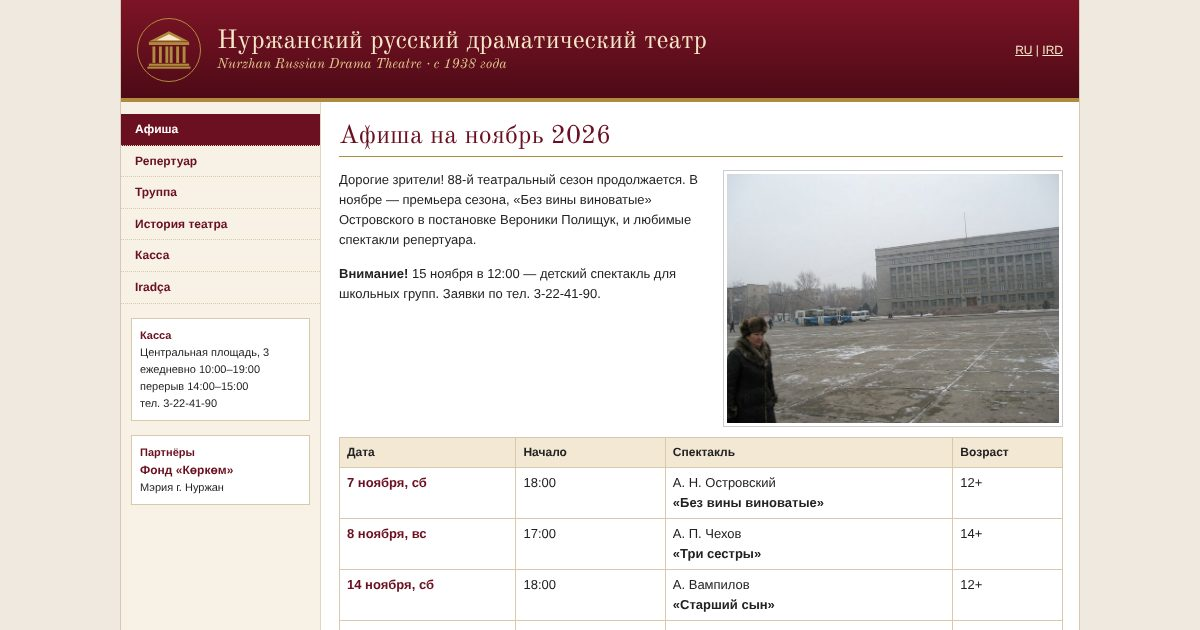
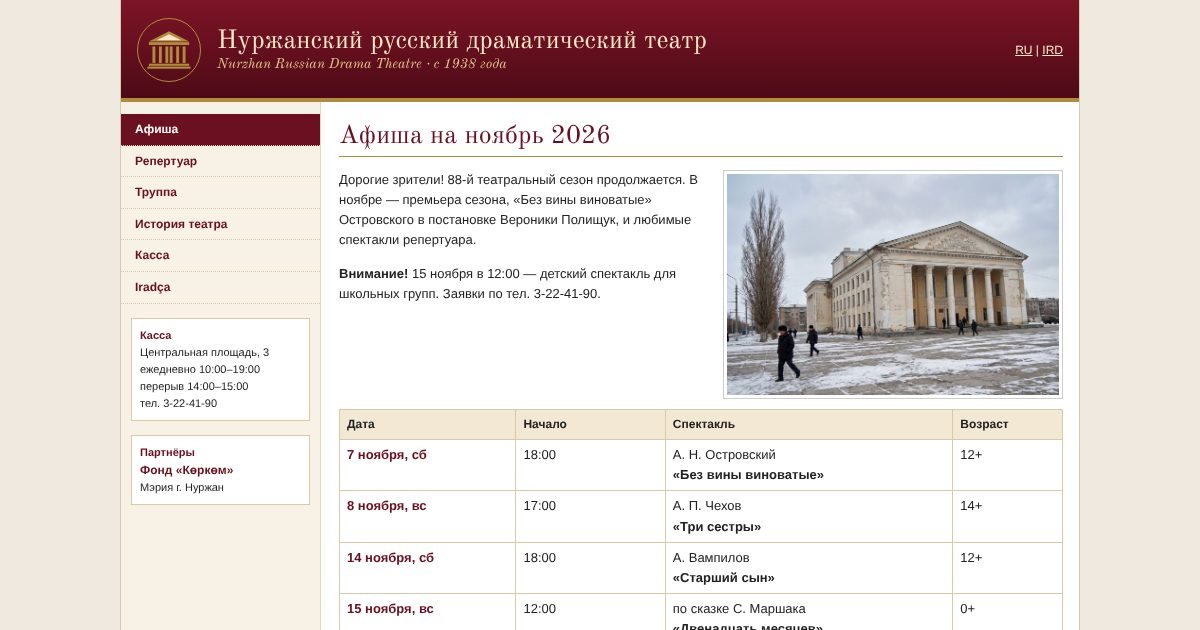
Add photos

Changed region(s): [[0.2775, 0.2714, 0.8942, 1.0], [0.8017, 0.8444, 0.8325, 0.9349], [0.8017, 0.9651, 0.8325, 0.9952]]

diff --git a/repertoire.html b/repertoire.html
@@ -22,7 +22,7 @@
 <div class="cols"><div class="side"><a href="index.html">Афиша</a><a href="repertoire.html" class="on">Репертуар</a><a href="troupe.html">Труппа</a><a href="history.html">История театра</a><a href="kassa.html">Касса</a><a href="kg.html">Iradça</a>
 <div class="box"><b>Касса</b><br>Центральная площадь, 3<br>ежедневно 10:00–19:00<br>перерыв 14:00–15:00<br>тел. 3-22-41-90</div>
 <div class="box"><b>Партнёры</b><br><a href="https://korkom.org/">Фонд «Көркөм»</a><br>Мэрия г. Нуржан</div></div>
-<div class="main"><h1>Репертуар</h1><div class="play"><div class="pos">Без вины виноватые</div><div><b>«Без вины виноватые»</b><br>А. Н. Островский<p>Премьера 15.10.2026. Реж. Вероника Полищук. Кручинина — з. а. Ирада Мамедова, Незнамов — Артём Бондаренко.</p></div></div><div class="play"><div class="pos">Три сестры</div><div><b>«Три сестры»</b><br>А. П. Чехов<p>Премьера 2023. Реж. Вероника Полищук. Ольга — Наталья Ким, Маша — Алина Сейткулова, Ирина — Дарья Гуревич.</p></div></div><div class="play"><div class="pos">Старший сын</div><div><b>«Старший сын»</b><br>А. Вампилов<p>Реж. Олег Тарасенко. Сарафанов — н. а. Виктор Голубев.</p></div></div><div class="play"><div class="pos">Ревизор</div><div><b>«Ревизор»</b><br>Н. В. Гоголь<p>Реж. Вероника Полищук. Хлестаков — Артём Бондаренко, Городничий — Валерий Пак.</p></div></div><div class="play"><div class="pos">На дне</div><div><b>«На дне»</b><br>М. Горький<p>Реж. Олег Тарасенко. 16+.</p></div></div><div class="play"><div class="pos">Двенадцать месяцев</div><div><b>«Двенадцать месяцев»</b><br>С. Маршак<p>Детский спектакль. По воскресеньям в 12:00.</p></div></div><p><i>«Вишнёвый сад»</i> (2012) сыгран более 200 раз за десять сезонов и снят с репертуара в 2022 году.</p></div></div>
+<div class="main"><h1>Репертуар</h1><p><img src="img/sestry.jpg" alt="«Три сестры», сцена из спектакля" style="max-width:100%;border:1px solid #d8c9a8;padding:3px;background:#fff"><br><small>«Три сестры», 2023.</small></p><div class="play"><div class="pos">Без вины виноватые</div><div><b>«Без вины виноватые»</b><br>А. Н. Островский<p>Премьера 15.10.2026. Реж. Вероника Полищук. Кручинина — з. а. Ирада Мамедова, Незнамов — Артём Бондаренко.</p></div></div><div class="play"><div class="pos">Три сестры</div><div><b>«Три сестры»</b><br>А. П. Чехов<p>Премьера 2023. Реж. Вероника Полищук. Ольга — Наталья Ким, Маша — Алина Сейткулова, Ирина — Дарья Гуревич.</p></div></div><div class="play"><div class="pos">Старший сын</div><div><b>«Старший сын»</b><br>А. Вампилов<p>Реж. Олег Тарасенко. Сарафанов — н. а. Виктор Голубев.</p></div></div><div class="play"><div class="pos">Ревизор</div><div><b>«Ревизор»</b><br>Н. В. Гоголь<p>Реж. Вероника Полищук. Хлестаков — Артём Бондаренко, Городничий — Валерий Пак.</p></div></div><div class="play"><div class="pos">На дне</div><div><b>«На дне»</b><br>М. Горький<p>Реж. Олег Тарасенко. 16+.</p></div></div><div class="play"><div class="pos">Двенадцать месяцев</div><div><b>«Двенадцать месяцев»</b><br>С. Маршак<p>Детский спектакль. По воскресеньям в 12:00.</p></div></div><p><i>«Вишнёвый сад»</i> (2012) сыгран более 200 раз за десять сезонов и снят с репертуара в 2022 году.</p></div></div>
 <div class="foot">© Нуржанский русский драматический театр, 2009–2026. Центральная площадь, 3, г. Нуржан. teatr@korkom.org<br>Гастроли по районам проводятся при поддержке <a href="https://korkom.org/">Фонда «Көркөм»</a>. Обновлено 03.11.2026. <span class="counter">Посещений: 48 317</span></div>
 </div></body>
 </html>

diff --git a/index.html b/index.html
@@ -23,7 +23,7 @@
 <div class="box"><b>Касса</b><br>Центральная площадь, 3<br>ежедневно 10:00–19:00<br>перерыв 14:00–15:00<br>тел. 3-22-41-90</div>
 <div class="box"><b>Партнёры</b><br><a href="https://korkom.org/">Фонд «Көркөм»</a><br>Мэрия г. Нуржан</div></div>
 <div class="main"><h1>Афиша на ноябрь 2026</h1>
-<p><img class="foto" src="img/square.jpg" alt="Центральная площадь" width="340" style="float:right;margin:0 0 10px 14px">
+<p><img class="foto" src="img/teatr.jpg" alt="Здание театра на Центральной площади" width="340" style="float:right;margin:0 0 10px 14px">
 Дорогие зрители! 88-й театральный сезон продолжается. В ноябре — премьера сезона, «Без вины виноватые» Островского в постановке Вероники Полищук, и любимые спектакли репертуара.</p>
 <p><b>Внимание!</b> 15 ноября в 12:00 — детский спектакль для школьных групп. Заявки по тел. 3-22-41-90.</p>
 <div class="scroll" style="clear:both"><table class="afisha"><tr><th>Дата</th><th>Начало</th><th>Спектакль</th><th>Возраст</th></tr><tr><td class="d">7 ноября, сб</td><td>18:00</td><td>А. Н. Островский<br><b>«Без вины виноватые»</b></td><td>12+</td></tr><tr><td class="d">8 ноября, вс</td><td>17:00</td><td>А. П. Чехов<br><b>«Три сестры»</b></td><td>14+</td></tr><tr><td class="d">14 ноября, сб</td><td>18:00</td><td>А. Вампилов<br><b>«Старший сын»</b></td><td>12+</td></tr><tr><td class="d">15 ноября, вс</td><td>12:00</td><td>по сказке С. Маршака<br><b>«Двенадцать месяцев»</b></td><td>0+</td></tr><tr><td class="d">21 ноября, сб</td><td>18:00</td><td>Н. В. Гоголь<br><b>«Ревизор»</b></td><td>12+</td></tr><tr><td class="d">22 ноября, вс</td><td>17:00</td><td>А. Н. Островский<br><b>«Без вины виноватые»</b></td><td>12+</td></tr><tr><td class="d">28 ноября, сб</td><td>18:00</td><td>М. Горький<br><b>«На дне»</b></td><td>16+</td></tr><tr><td class="d">29 ноября, вс</td><td>17:00</td><td>А. П. Чехов<br><b>«Три сестры»</b></td><td>14+</td></tr><tr><td class="d">с 20 декабря</td><td>11:00, 14:00</td><td>Новогодняя ёлка<br><b>«Морозко»</b></td><td>0+</td></tr></table></div>
